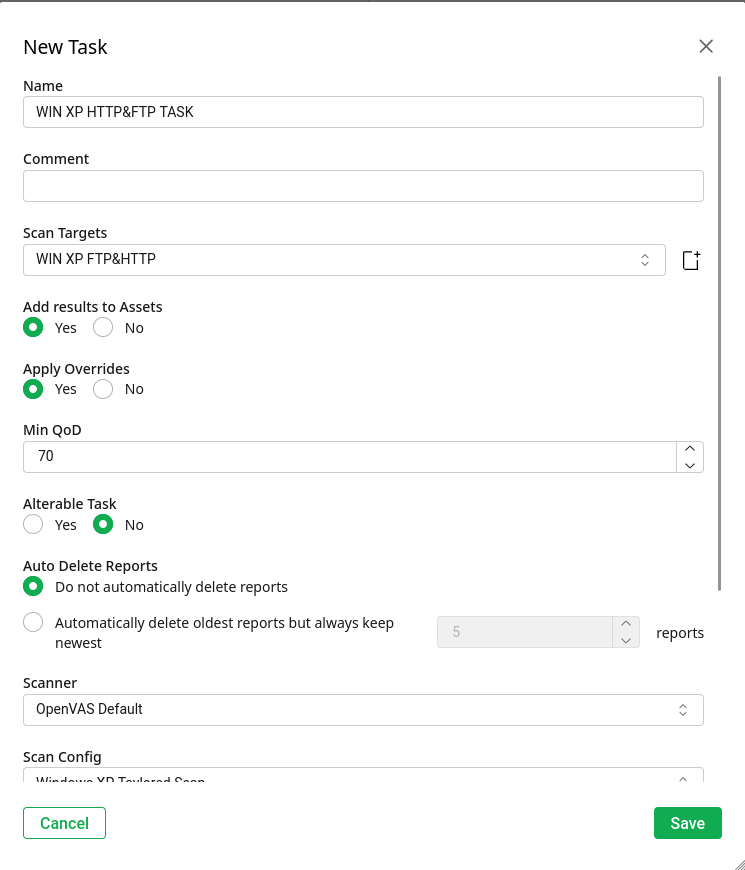
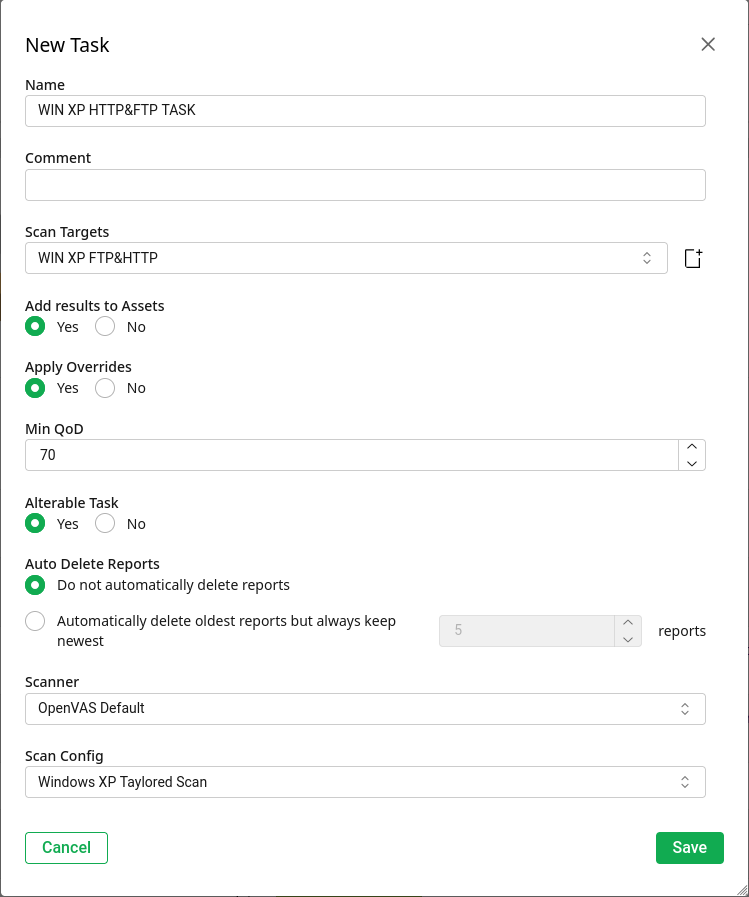
feat: added Windows XP configuration, added screenshots for the final part of the report

diff --git a/report/section_2/scan.tex b/report/section_2/scan.tex
@@ -1,5 +1,5 @@
 \chapter{OpenVAS Scan}
-
+In this chapter the most important aspects of OpenVAS are explained, with practical examples to give the reader an understanding of the tools usage.
 \label{cha:openvas_scan}
 
 
@@ -228,8 +228,38 @@ To create it select the Empty config, save it and then edit it by clicking to th
     \label{fig:ftphttptayloredscan2}
 \end{figure}
 
+
+This is far from being a completely optimized scan for our purpose, since we are able to better tailor each section seen here by pressing on the pencil mark, but that would become time consuming since you would select/deselect hundreds of different things it scans, so for semplicity it is ignored in this experiment.
+
 \subsection{Starting the scan}
-Now we are ready to begin the scan, to do this go back to the tasks windows, click on the task add button and do the following:
+Now we are ready to begin the scan, to do this go back to the tasks windows, click on the task add button and add all the settings created so far like this:
+
+\begin{figure}[H]
+    \centering
+    \begin{subfigure}{0.48\textwidth}
+        \centering
+        \includegraphics[width=\textwidth]{images/openvas_xpftptask1.png}
+        \caption{FTP task 1} 
+        \label{fig:ftptask1}
+    \end{subfigure}
+    \hfill 
+    \begin{subfigure}{0.48\textwidth}
+        \centering
+        \includegraphics[width=\textwidth]{images/openvas_xpftptask2.png}
+        \caption{FTP task 2}
+        \label{fig:ftptask2}
+    \end{subfigure}
+    \label{fig:ftptaska2}
+\end{figure}
+
+This task will scan Windows XP for the FTP service. Now you should have a new task created with the name you gave it, in this case \textbf{WIN XP FTP TASK} like so:
+
+\begin{figure}[H]
+    \centering
+    \includegraphics[width=0.8\textwidth]{images/openvas_createdtasks1.png}
+\end{figure}
+
+Now press the play button to queue it so that it will start, it will take approximately 10 minutes to complete.
 
 
 

diff --git a/report/introduction/initial_configuration.tex b/report/introduction/initial_configuration.tex
@@ -159,7 +159,27 @@ logging without authentication on port 514.
 Windows XP is an old operating system that is no longer supported by Microsoft,
 which makes it vulnerable to various types of attacks.
 Just it's mere presence in the network is a vulnerability, since it can be easily exploited by attackers.
+
 To set up Windows XP, we just installed its virtual machine on VirtualBox and connected it to the same network of the other machines.
+To install all vulnerable services you should first acquire a Windows XP Pro Service Pack 1 iso, go to the Control Panel, Add/Remove Windows Components and we enabled every service that was enabled
+
+\begin{figure}[h!]
+    \label{fig:net-conf}
+    \centering
+    \includegraphics[width=0.8\textwidth]{Windowsxp_components1.png}
+    \caption{Full laboratory's network}
+\end{figure}
+
+Then to enable the FTP server select \textbf{Internet Information Services (IIS)}, click \textbf{details} and you should enable it. 
+\begin{figure}[h!]
+    \label{fig:net-conf}
+    \centering
+    \includegraphics[width=0.8\textwidth]{Windowsxp_components2.png}
+    \caption{Full laboratory's network}
+\end{figure}
+
+Then click ok and Windows will install all required packages, then reboot. The FTP service now should be installed. This version of Windows did not have a firewall enabled by default, and even so it was a primitive version so it should not pose issues.
+
 
 \section{Network configuration}
 The whole network configuration is an Host-only virtual network 